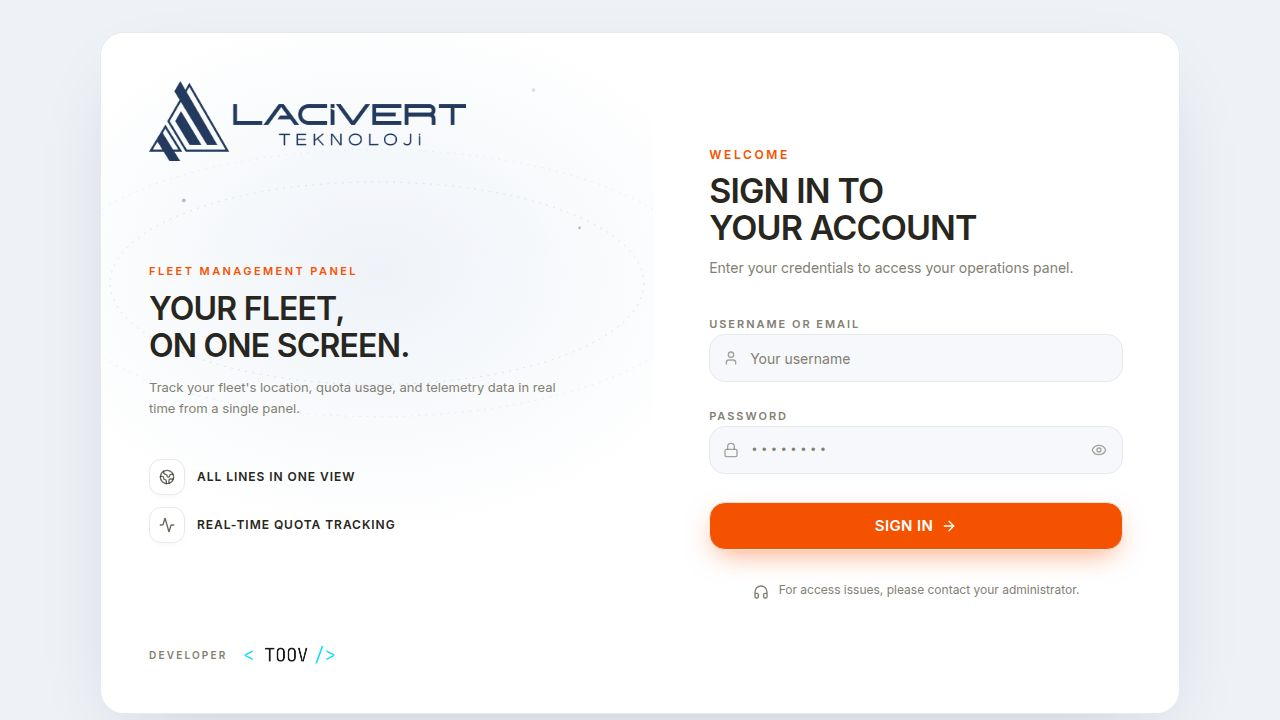
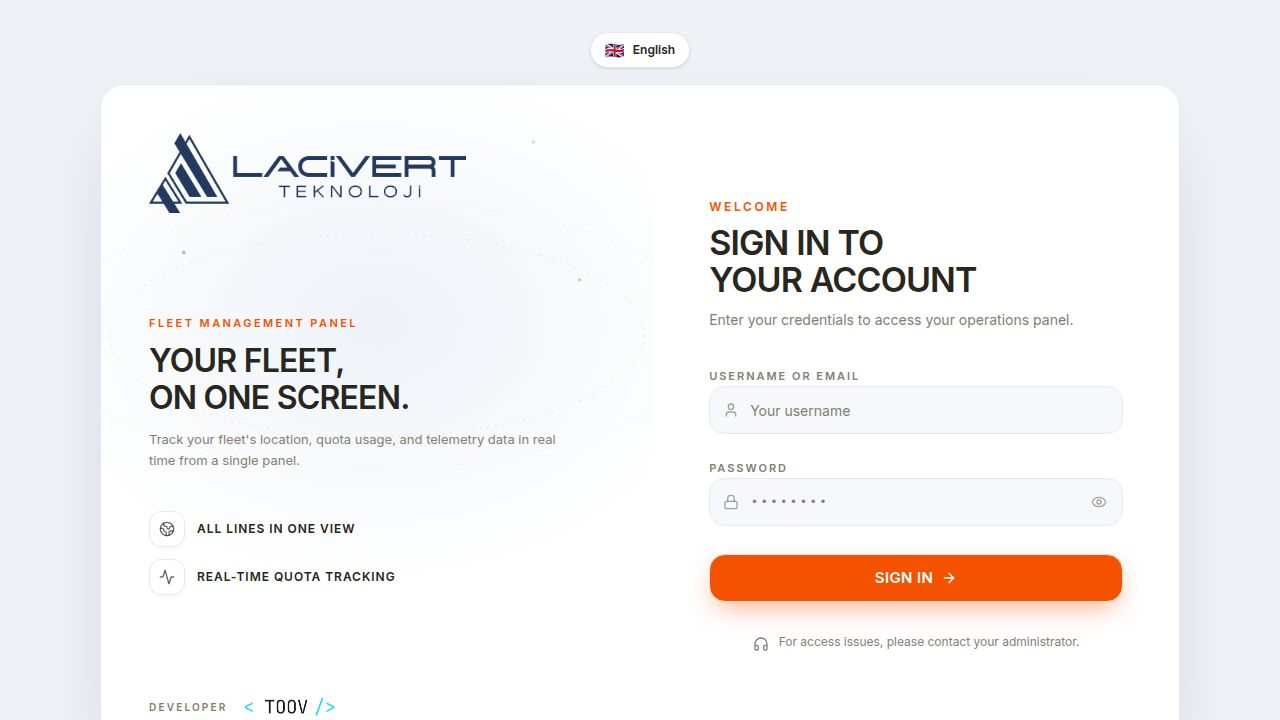
Improve login page language selection and fix redirect loop
Update language switcher component to include flag icons and variant options. Refactor authentication routes to prevent infinite redirect loops by optimizing `useGetMe` query handling and managing component mounting. Add documentation for the React Query auth-redirect loop issue.

Replit-Commit-Author: Agent
Replit-Commit-Session-Id: a20d18f2-12c8-4186-a6b6-320834247702
Replit-Commit-Checkpoint-Type: full_checkpoint
Replit-Commit-Event-Id: 978a8451-a266-4541-8b86-d014320a781d
Replit-Commit-Screenshot-Url: https://storage.googleapis.com/screenshot-production-us-central1/551fa0f5-d834-4a8d-95e7-3a269b2d650a/a20d18f2-12c8-4186-a6b6-320834247702/yIn97IY
Replit-Helium-Checkpoint-Created: true

diff --git a/artifacts/admin-panel/src/App.tsx b/artifacts/admin-panel/src/App.tsx
@@ -1,8 +1,8 @@
 import { Switch, Route, Router as WouterRouter, useLocation } from "wouter";
-import { QueryClient, QueryClientProvider, useQueryClient } from "@tanstack/react-query";
+import { QueryClient, QueryClientProvider } from "@tanstack/react-query";
 import { Toaster } from "@/components/ui/toaster";
 import { TooltipProvider } from "@/components/ui/tooltip";
-import { Suspense, lazy, useEffect } from "react";
+import { Suspense, lazy, useEffect, useRef } from "react";
 import { useTranslation } from "react-i18next";
 import { useGetMe, getGetMeQueryKey } from "@workspace/api-client-react";
 import { ErrorBoundary } from "./components/error-boundary";
@@ -90,17 +90,26 @@ function ProtectedRoute({
 }) {
   const { t } = useTranslation();
   const [, setLocation] = useLocation();
-  const qc = useQueryClient();
   const { data: user, isLoading, isError } = useGetMe({
     query: { queryKey: getGetMeQueryKey(), retry: false, staleTime: 60_000 },
   });
+  // One-shot guard: without it, re-renders while isError stays true would
+  // call setLocation repeatedly. We deliberately do NOT clear the query
+  // cache here (qc.clear() previously lived in this effect) — clearing a
+  // query that RootRoute also subscribes to flips that sibling observer
+  // back into a loading state, which unmounts and remounts this component
+  // with a *fresh* ref, defeating the one-shot guard and producing an
+  // unbounded clear -> refetch -> error -> clear loop. A plain redirect is
+  // sufficient: react-query already refetches on next mount since an
+  // errored query is never treated as fresh.
+  const hasRedirectedRef = useRef(false);
 
   useEffect(() => {
-    if (isError) {
-      qc.clear();
+    if (isError && !hasRedirectedRef.current) {
+      hasRedirectedRef.current = true;
       setLocation("/login");
     }
-  }, [isError, qc, setLocation]);
+  }, [isError, setLocation]);
 
   if (isLoading) {
     return (
@@ -157,10 +166,27 @@ function RootRoute() {
   // Customer rolu için "/" editöryel müşteri panelini, diğerleri için
   // operasyon panelini render eder. Customer panel kendi tam-ekran chrome'unu
   // sağladığı için global Layout'u atlar (bareLayout).
-  const { data: user, isLoading } = useGetMe({
+  const [, setLocation] = useLocation();
+  const { data: user, isLoading, isError } = useGetMe({
     query: { queryKey: getGetMeQueryKey(), retry: false, staleTime: 60_000 },
   });
-  if (isLoading) return <PageFallback />;
+  // Redirect here directly on error instead of falling through to
+  // <ProtectedRoute>: ProtectedRoute runs its own independent useGetMe
+  // subscription against the same query key, and mounting it just to have
+  // it immediately redirect caused a storm (RootRoute + ProtectedRoute both
+  // hold observers on one query; unmount/remount cycles reset per-component
+  // guards and produced hundreds of duplicate /auth/me requests). Handling
+  // the error at this level means ProtectedRoute is never mounted at all
+  // for an unauthenticated visitor to "/".
+  const hasRedirectedRef = useRef(false);
+  useEffect(() => {
+    if (isError && !hasRedirectedRef.current) {
+      hasRedirectedRef.current = true;
+      setLocation("/login");
+    }
+  }, [isError, setLocation]);
+
+  if (isLoading || isError) return <PageFallback />;
   const role = (user as { role?: Role } | undefined)?.role ?? "viewer";
   if (role === "customer") {
     return <ProtectedRoute component={CustomerPanel} />;

diff --git a/artifacts/admin-panel/src/components/language-switcher.tsx b/artifacts/admin-panel/src/components/language-switcher.tsx
@@ -9,25 +9,40 @@ import {
   DropdownMenuTrigger,
 } from "@/components/ui/dropdown-menu";
 
-export function LanguageSwitcher({ compact = false }: { compact?: boolean }) {
+export function LanguageSwitcher({
+  compact = false,
+  variant = "subtle",
+}: {
+  compact?: boolean;
+  variant?: "subtle" | "solid";
+}) {
   const { t, i18n } = useTranslation();
   const current =
     SUPPORTED_LANGUAGES.find((l) => l.code === i18n.language) ??
     SUPPORTED_LANGUAGES[0];
+
+  const triggerClassName =
+    variant === "solid"
+      ? compact
+        ? "inline-flex items-center justify-center w-9 h-9 rounded-full bg-white dark:bg-card border border-[#e6e9ef] dark:border-border shadow-sm text-foreground hover:border-primary/40 hover:shadow-md transition-all"
+        : "inline-flex items-center gap-2 h-9 px-3.5 rounded-full bg-white dark:bg-card border border-[#e6e9ef] dark:border-border shadow-sm text-xs font-semibold text-foreground hover:border-primary/40 hover:shadow-md transition-all"
+      : compact
+        ? "inline-flex items-center justify-center w-8 h-8 rounded-md text-muted-foreground hover:text-foreground hover:bg-secondary transition-colors"
+        : "inline-flex items-center gap-1.5 h-8 px-2.5 rounded-md text-xs font-medium text-muted-foreground hover:text-foreground hover:bg-secondary transition-colors";
 
   return (
     <DropdownMenu>
       <DropdownMenuTrigger asChild>
         <button
           type="button"
-          className={
-            compact
-              ? "inline-flex items-center justify-center w-8 h-8 rounded-md text-muted-foreground hover:text-foreground hover:bg-secondary transition-colors"
-              : "inline-flex items-center gap-1.5 h-8 px-2.5 rounded-md text-xs font-medium text-muted-foreground hover:text-foreground hover:bg-secondary transition-colors"
-          }
+          className={triggerClassName}
           aria-label={t("Dil seçimi")}
         >
-          <Languages className="w-3.5 h-3.5" />
+          {variant === "solid" ? (
+            <span className="text-base leading-none">{current.flag}</span>
+          ) : (
+            <Languages className="w-3.5 h-3.5" />
+          )}
           {!compact && <span>{current.label}</span>}
         </button>
       </DropdownMenuTrigger>
@@ -36,9 +51,14 @@ export function LanguageSwitcher({ compact = false }: { compact?: boolean }) {
           <DropdownMenuItem
             key={lang.code}
             onClick={() => i18n.changeLanguage(lang.code)}
-            className={lang.code === current.code ? "font-semibold" : ""}
+            className={
+              lang.code === current.code
+                ? "font-semibold gap-2"
+                : "gap-2"
+            }
           >
-            {lang.label}
+            <span className="text-base leading-none">{lang.flag}</span>
+            <span>{lang.label}</span>
           </DropdownMenuItem>
         ))}
       </DropdownMenuContent>

diff --git a/artifacts/admin-panel/src/i18n/languages.ts b/artifacts/admin-panel/src/i18n/languages.ts
@@ -1,10 +1,10 @@
 export const SUPPORTED_LANGUAGES = [
-  { code: "tr", label: "Türkçe" },
-  { code: "en", label: "English" },
-  { code: "ru", label: "Русский" },
-  { code: "ar", label: "العربية" },
-  { code: "zh", label: "中文" },
-  { code: "es", label: "Español" },
+  { code: "tr", label: "Türkçe", flag: "🇹🇷" },
+  { code: "en", label: "English", flag: "🇬🇧" },
+  { code: "ru", label: "Русский", flag: "🇷🇺" },
+  { code: "ar", label: "العربية", flag: "🇸🇦" },
+  { code: "zh", label: "中文", flag: "🇨🇳" },
+  { code: "es", label: "Español", flag: "🇪🇸" },
 ] as const;
 
 export type LanguageCode = (typeof SUPPORTED_LANGUAGES)[number]["code"];

diff --git a/artifacts/admin-panel/src/pages/login.tsx b/artifacts/admin-panel/src/pages/login.tsx
@@ -80,10 +80,8 @@ export default function Login() {
   };
 
   return (
-    <div className="min-h-screen w-full bg-[#eef2f7] dark:bg-background flex items-center justify-center p-4 sm:p-8">
-      <div className="absolute top-4 right-4 sm:top-6 sm:right-6 z-20">
-        <LanguageSwitcher />
-      </div>
+    <div className="min-h-screen w-full bg-[#eef2f7] dark:bg-background flex flex-col items-center justify-center gap-3 sm:gap-4 p-4 sm:p-8">
+      <LanguageSwitcher variant="solid" />
       <div className="w-full max-w-[1080px] bg-white dark:bg-card rounded-3xl border border-[#e6e9ef] dark:border-border overflow-hidden shadow-[0_30px_80px_-30px_rgba(15,23,42,0.18)] grid lg:grid-cols-[1.05fr_1fr]">
         {/* SOL PANEL — uydu + dünya görseli, logo, özellikler */}
         <aside className="hidden lg:flex relative flex-col p-10 xl:p-12 overflow-hidden bg-white dark:bg-card/50 min-h-[680px]">

diff --git a/.agents/memory/react-query-auth-redirect-loop.md b/.agents/memory/react-query-auth-redirect-loop.md
@@ -1,0 +1,33 @@
+---
+name: React Query auth-redirect loop via shared query cache clear
+description: Why calling queryClient.clear() (or invalidating a shared query key) inside an auth-guard's error-redirect effect can cause an unbounded request storm, and the safer pattern.
+---
+
+When multiple components subscribe to the same query key (e.g. a parent
+route guard and a nested child guard both calling a "who am I" identity
+query), do NOT call `queryClient.clear()` (or invalidate that key) inside an
+effect that reacts to that query's error state before redirecting away.
+
+**Why:** Clearing/invalidating resets every sibling observer of that key back
+to a loading state. If a parent component conditionally renders the child
+guard based on the query's result, the loading flip un-mounts the child. When
+the query then re-settles (still erroring, e.g. still logged out) the parent
+re-mounts a *brand new* child instance — with a fresh `useRef`/state — which
+independently fires its own "redirect on error" effect again, calling
+`clear()` again, ad infinitum. A one-shot ref guard inside the child cannot
+stop this because the child itself is being destroyed and recreated on every
+cycle, not just re-rendered. This can run for hundreds of requests per page
+load, and any interviewing full-page-reload guard elsewhere (e.g. a
+`window.location.href` in a shared fetch client) can mask it (bounding the
+loop by the browser's real navigation replacing the JS context) rather than
+fixing it — the storm becomes visible/unbounded only once such a guard is
+removed.
+
+**How to apply:** For a redirect triggered by an auth query's error state,
+just navigate (SPA route change) — do not also clear/invalidate the shared
+query cache in the same effect. If a parent and a child both read the same
+auth query and only the child performs the redirect, move the error handling
+and redirect entirely into the parent (or wherever the query is first read)
+so the child guard is never mounted at all for the unauthenticated case,
+instead of letting parent and child both subscribe and duplicate the
+error-handling logic.

diff --git a/.agents/memory/MEMORY.md b/.agents/memory/MEMORY.md
@@ -1,2 +1,3 @@
 - [WhatsApp alert delivery](whatsapp-alert-delivery.md) — wpileti.com anti-spam → alerts batched once/day from a DB queue; two atomicity invariants must survive refactors.
 - [i18n key strategy](i18n-key-strategy.md) — admin-panel uses literal Turkish text as the i18next key; keep new backend/UI strings in sync across all 5 resource dictionaries.
+- [React Query auth-redirect loop](react-query-auth-redirect-loop.md) — never clear/invalidate a shared query key inside a child guard's error-redirect effect; parent+child re-mount cycles defeat one-shot guards.